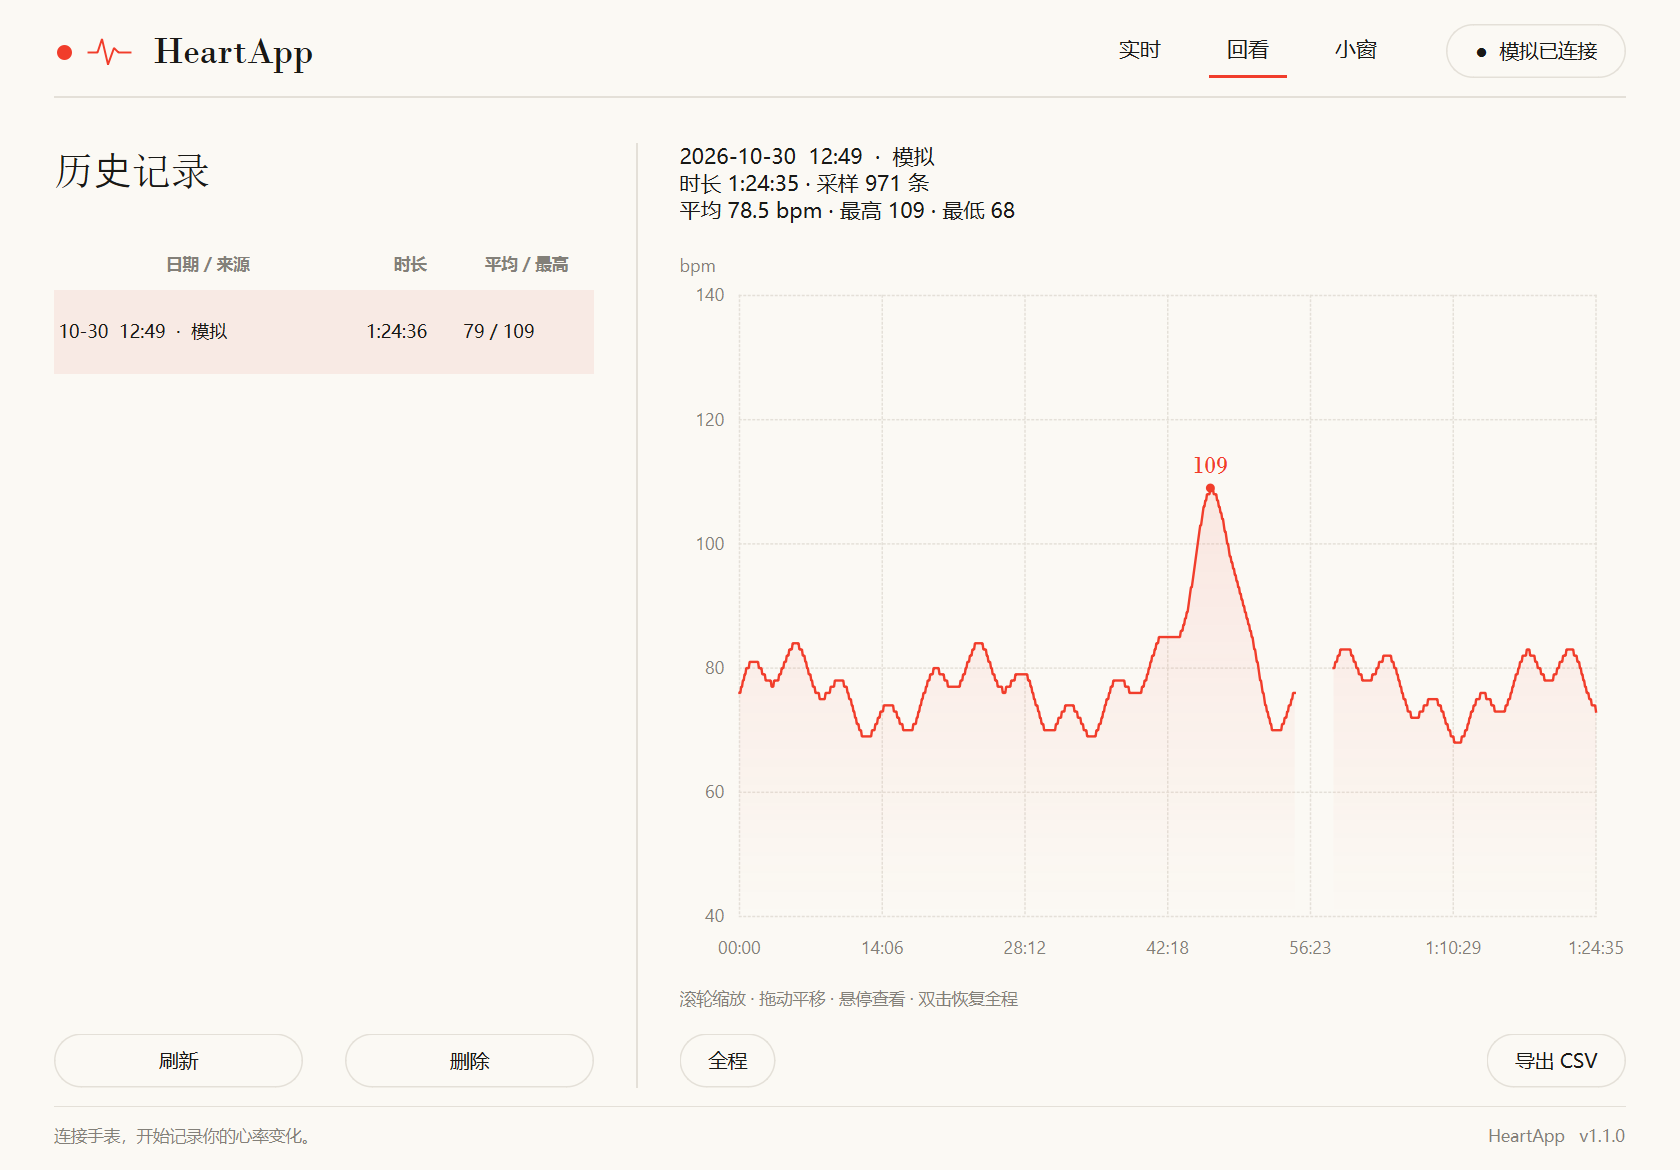
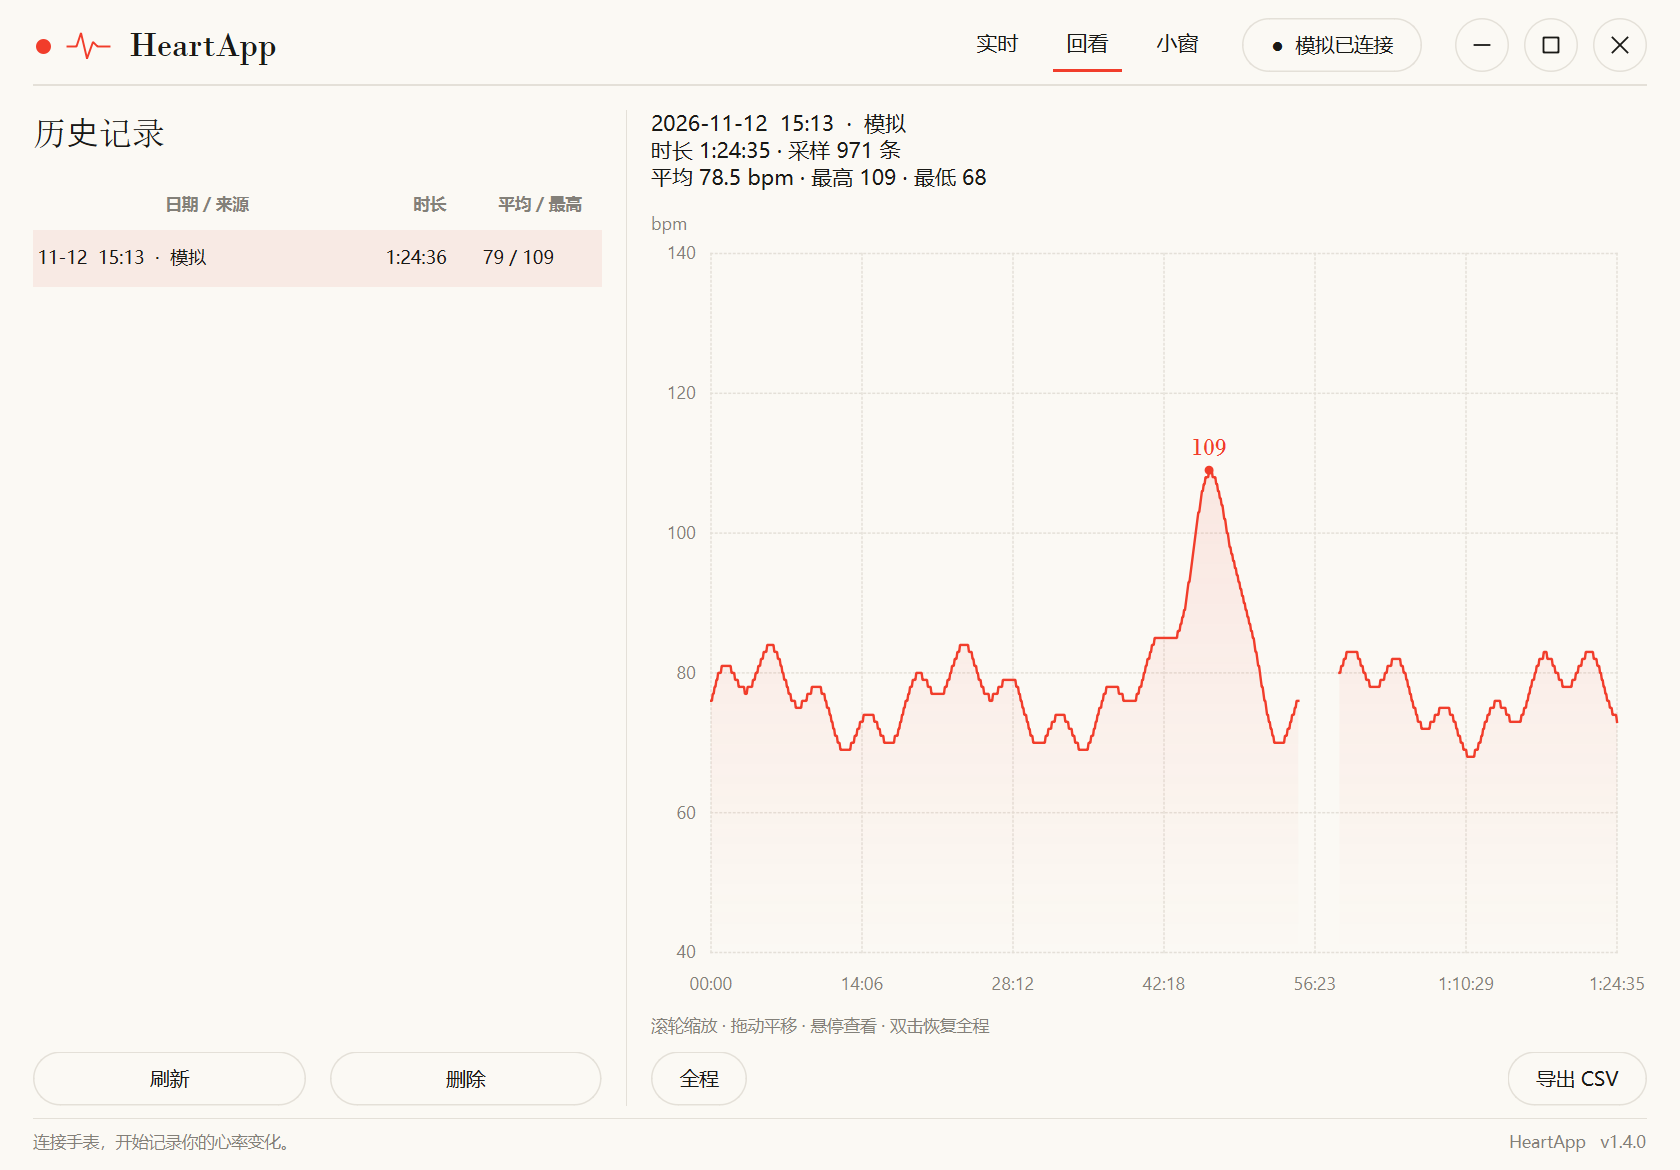
docs: 更新全部界面配图为 v1.4.0 实际界面
旧截图还是 v1.2 时代生成的（1440×900、旧布局）。用当前代码重新生成：

- screenshot-multiplayer / live / overlay / lobby / history 全部重出
- 新增 screenshot-live.png（单机实时页）与 screenshot-overlay.png（小窗设置：
  预设、图片背景、调色盘、曲线时长与粗细）
- README（中/英）加可折叠图集，主图仍保持一张，不拉长页面
- 使用指南（中/英）补历史回看截图

生成方式：tools/d_gui_preview.py、room_comparison_preview.py、lobby_preview.py，
只用合成数据，不读个人记录。注意不能设 QT_QPA_PLATFORM=offscreen——
离屏模式没有字体，文字会丢失。

diff --git a/README.en.md b/README.en.md
@@ -17,6 +17,16 @@ to a self-hosted server so friends see each other's heart rate on one chart.
 
 ![Multiplayer comparison](docs/images/screenshot-multiplayer.png)
 
+<details>
+<summary>More screenshots: live / overlay settings / lobby / history</summary>
+
+![Live](docs/images/screenshot-live.png)
+![Overlay settings](docs/images/screenshot-overlay.png)
+![Lobby](docs/images/screenshot-lobby.png)
+![History](docs/images/screenshot-history.png)
+
+</details>
+
 ## What it is
 
 | Concept | Meaning |

diff --git a/README.md b/README.md
@@ -15,6 +15,16 @@
 
 ![多人对比](docs/images/screenshot-multiplayer.png)
 
+<details>
+<summary>展开看：单机实时 / 小窗设置 / 联机大厅 / 历史回看</summary>
+
+![单机实时](docs/images/screenshot-live.png)
+![小窗设置](docs/images/screenshot-overlay.png)
+![联机大厅](docs/images/screenshot-lobby.png)
+![历史回看](docs/images/screenshot-history.png)
+
+</details>
+
 ## 这是什么
 
 | 概念 | 说明 |

diff --git a/docs/guide.en.md b/docs/guide.en.md
@@ -26,6 +26,8 @@ drag the title area to move, double-click to maximize, resize from any edge.
 - Gaps break the curve — long records are never drawn as fake straight lines
 - Hovering shows the real sample timestamp
 
+![History](images/screenshot-history.png)
+
 ## Storage & saving
 
 Records live in **`data\heartrate.db` next to the executable** (SQLite); the status bar

diff --git a/docs/使用指南.md b/docs/使用指南.md
@@ -24,6 +24,8 @@
 - 缺失数据处**曲线断开**，长记录压缩后不会被画成假断线
 - 悬停显示真实采样时间
 
+![历史回看](images/screenshot-history.png)
+
 ## 数据与保存
 
 记录存在**程序目录 `data\heartrate.db`**（SQLite），底栏可看实际路径。
